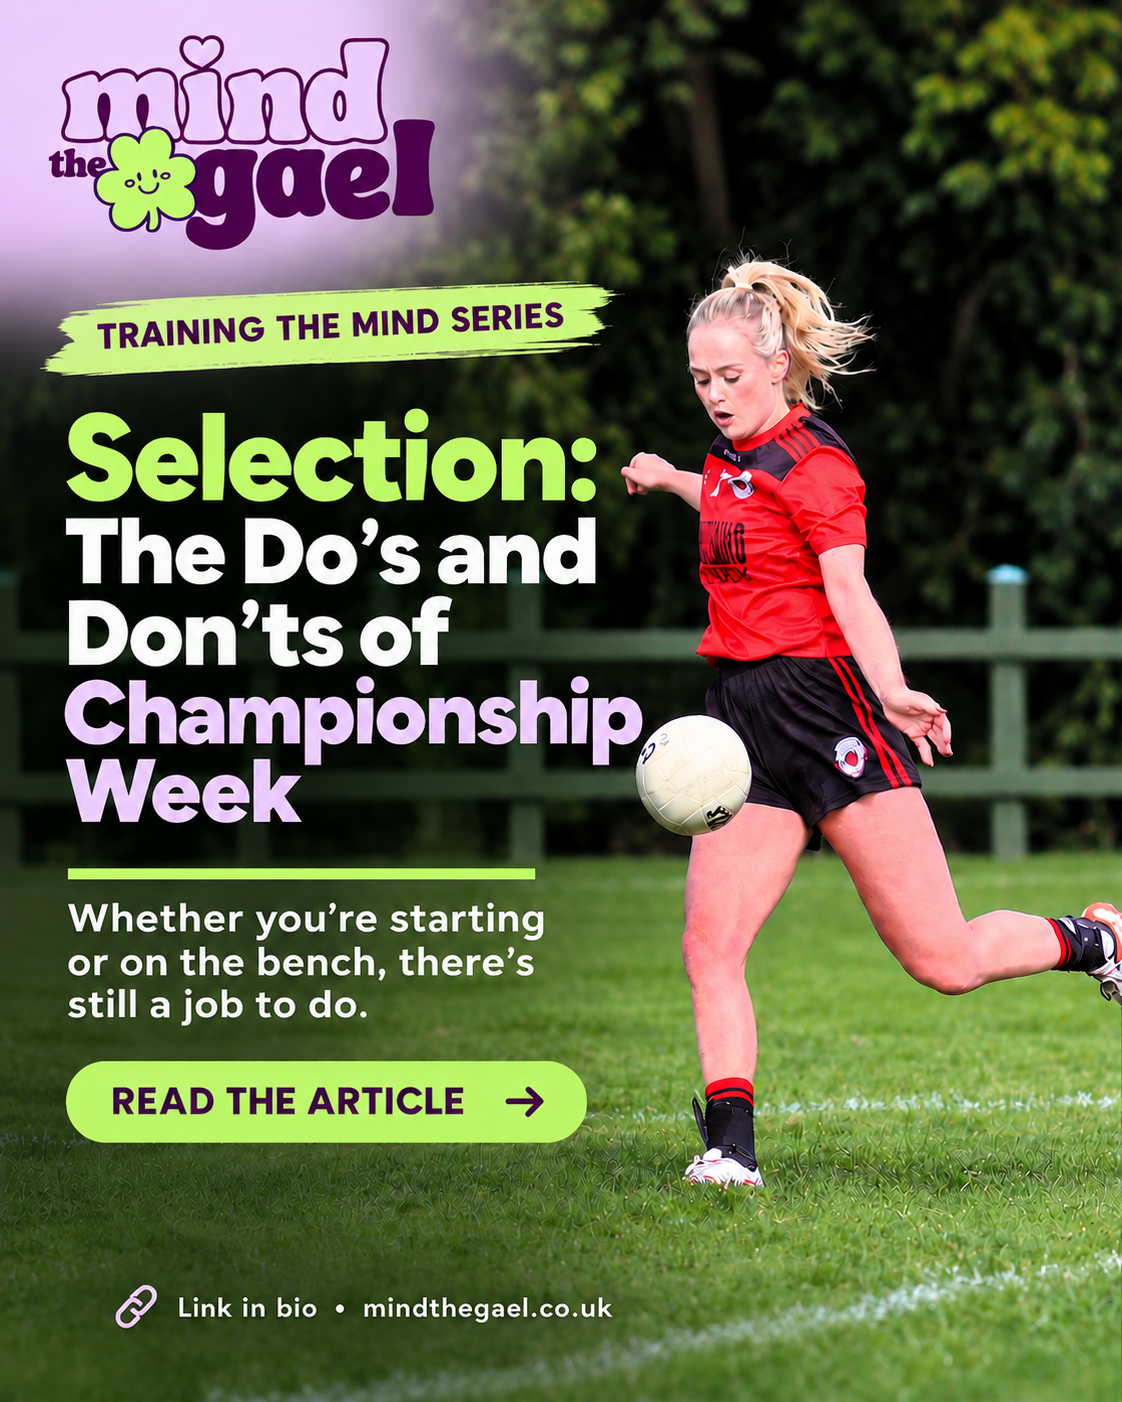
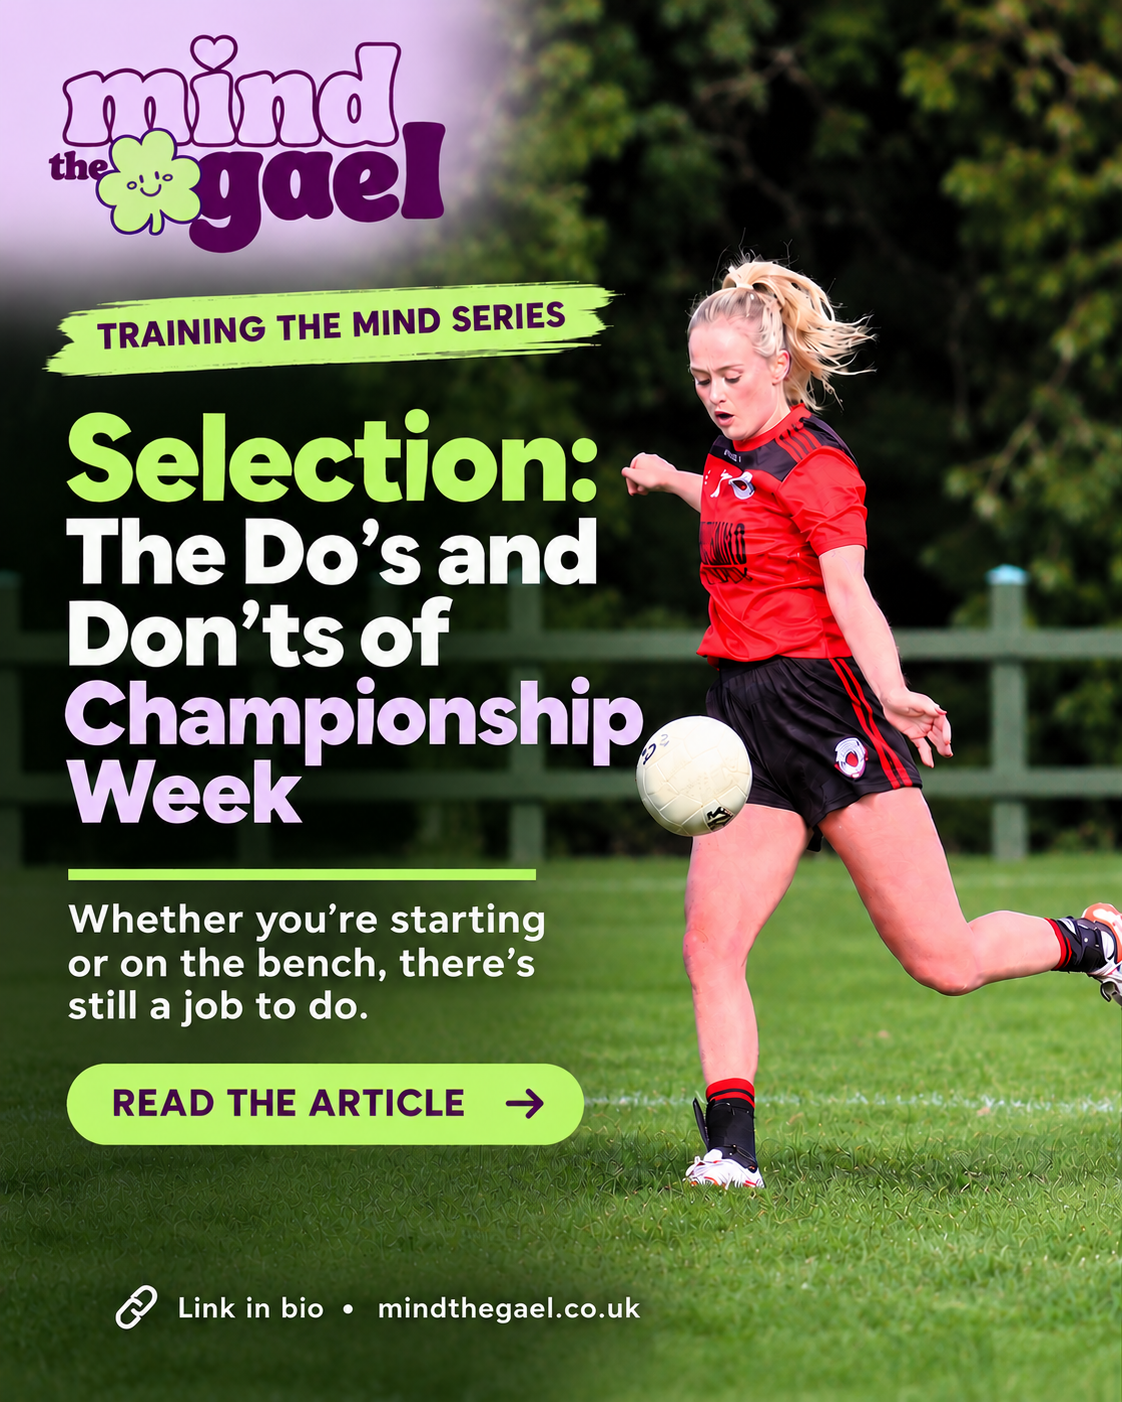
selection

diff --git a/src/content/blog/training-the-mind/selection-dos-and-donts.md b/src/content/blog/training-the-mind/selection-dos-and-donts.md
@@ -12,7 +12,7 @@ track: "training-the-mind"
 
 <h2>Why selection hurts more than it should</h2>
 
-Selection is one of the few things in sport that is outside your control and can feel entirely personal. You can train every session, play well all season and still find yourself on the bench for the biggest game of the year.
+Selection is something you can't fully control, yet it can feel entirely personal. You can train every session, play well all season and still find yourself on the bench for the biggest game of the year.
 
 When football is a big part of your life, being picked to start can become tied to how you see yourself as a player. Psychologists Crocker and Wolfe explored how people connect their self-worth to particular areas of their lives. If football is one of yours, a team sheet can feel less like a tactical decision and more like a judgement on your ability.
 
@@ -24,23 +24,31 @@ That isn't what happened.
 
 I was benched for the County Final, the All-Britain Final and the All-Ireland Quarter Final, and I was devastated. I couldn't hide my emotions or pretend I was ok. I was heartbroken, and whether I came on or not, my head was gone.
 
-To this day, neither of those wins feels like mine. By the time the quarter final came around, I was shamefully happy we lost, because it meant I could stop pretending.
+To this day, neither of those wins feels like mine. By the time the quarter final came around, I was emotionally exhausted. I was struggling to celebrate the team's success while feeling so disappointed about my own involvement, and I didn't know how to separate the two.
 
 My teammates will tell you it's a team effort, and they're right. But the contribution is different for different players. I wanted to play, to feel like I'd made a difference. Instead, when I did get minutes, I felt like I was being brought on for the sake of it. That might not have been true. It's how it felt at the time.
 
 Looking back, I know I didn't handle it well. I was so caught up in not starting that I stopped recognising the part I'd already played in getting us there.
 
-And now, a year later, I'm writing this ahead of another championship final on Saturday, and I'm on the bench again.
+And now, a year later, I'm preparing for another championship final on Saturday.
 
-It doesn't hurt any less. I'm always on the cusp. Close enough to believe I'll get my chance, but not quite where I want to be when the biggest games come around.
+I'd love to say everything I've learned about sports psychology means I've completely figured out how to deal with selection. I haven't. I still want to start the biggest games, and I still find the uncertainty and disappointment difficult.
 
-I'd love to say everything I've learned about sports psychology means I'm handling it brilliantly this time. I'm not. I'm still disappointed.
+But I remember how I felt after last year's finals, and I don't want to repeat that experience. Whatever my role on Saturday, I want to be ready to contribute.
 
-But I don't want a repeat of last year either. I'm still part of this team. There's a final to be played, and I have a responsibility to turn up for it.
+## It's still a team sport
+
+There's a difference between playing sixty minutes of a final and watching sixty minutes of it. Being part of the same squad doesn't mean everyone experiences the occasion in the same way.
+
+But the starting fifteen don't prepare for a championship on their own. They need a squad training alongside them, competing for places and ready to contribute.
+
+I've trained alongside the starting players all season. I still want to start finals, and I still believe I have something to offer on the pitch.
+
+But I can't make my contribution conditional on getting the role I want.
+
+So, whether you're waiting for the team to be named, starting or on the bench, here are a few things worth thinking about during championship week.
 
 <h3>The days before the team goes up</h3>
-
-Whether the team has already been named or you're still waiting to find out, there are things worth keeping in mind during championship week.
 
 For some players, the uncertainty before the team is named is harder than the decision itself. It's easy to start reading into things at training. Who wore which bib. Whether the manager spoke to you. Who played in your position during a drill.
 
@@ -77,9 +85,6 @@ If you do find yourself worrying about proving you deserve your place, it can ta
 Being named on the bench affects players differently. Some will be disappointed, others might have expected it, and some will be happy to be part of the squad.
 
 Whatever your reaction, it's worth preparing for the possibility that you'll be called on.
-I didn't do that well last year. I spent so much time thinking about why I wasn't starting that by the time I was needed, I'd already spent most of my energy being upset.
-
-I could disagree with the decision, but spending the match arguing with it in my own head didn't help me play better.
 
 You might get twenty minutes. You might get five. You might not get on at all. You won't necessarily know beforehand, so being ready matters.
 
@@ -90,35 +95,13 @@ You might get twenty minutes. You might get five. You might not get on at all. Y
 4. Have something simple to focus on if you come on. Your first pass, your first tackle, your first run.
 
 **Don't:**
+
 1. Spend the match dwelling on whether the manager made the right decision. It can distract you from what's happening on the pitch.
 2. Take your frustration out on the player starting ahead of you. She didn't pick the team.
 3. Try to prove a point with every touch if you get on. Play your normal game.
 4. Switch off because you don't expect to get minutes.
 
-It's also worth thinking about how you handle disappointment around your teammates.
-
-I know I struggled with that last year. I was entitled to be upset, but I also had a responsibility to the players who'd worked just as hard to get there.
-I didn't have to agree with the manager. I did have to be ready if I was needed.
-
-<h3>It's still a team sport</h3>
-
-There's a difference between playing sixty minutes of a final and watching sixty minutes of it. Pretending those experiences are the same doesn't help anyone.
-
-The starting fifteen don't prepare for a championship on their own. They need a squad training alongside them, competing for places and ready to contribute.
-
-I've trained alongside the starting players all season, and I've helped prepare this team for Saturday. I still want to start finals, and I still believe I have something to offer on the pitch.
-
-But I can't make my contribution conditional on getting the role I want.
-
-<h3>Looking ahead to Saturday</h3>
-
-I'm tired of feeling like I'm nearly there, and I don't think that frustration will disappear overnight.
-
-But I remember how I felt after last year's finals. I spent so much time being upset about my own position that I barely allowed myself to appreciate what the team had achieved.
-
-I don't want to do that again.
-
-If I get twenty minutes, I want to use them properly. If I get five, I want to make those five count. And if I don't get on, I still want the girls out there to win.
+You don't have to agree with the manager's decision to be ready if you're needed.
 
 I'll have plenty of time to think about my own football after the final. For now, I've a job to do.
 
